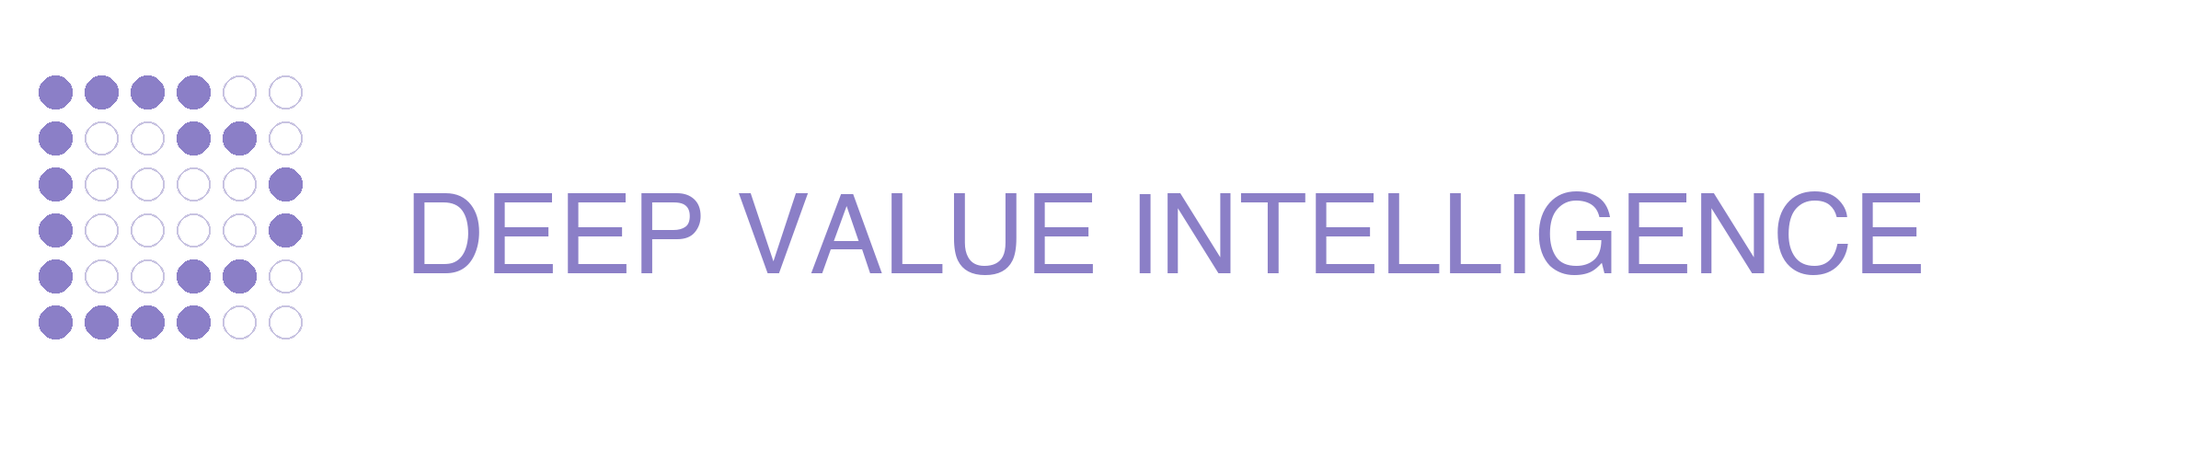
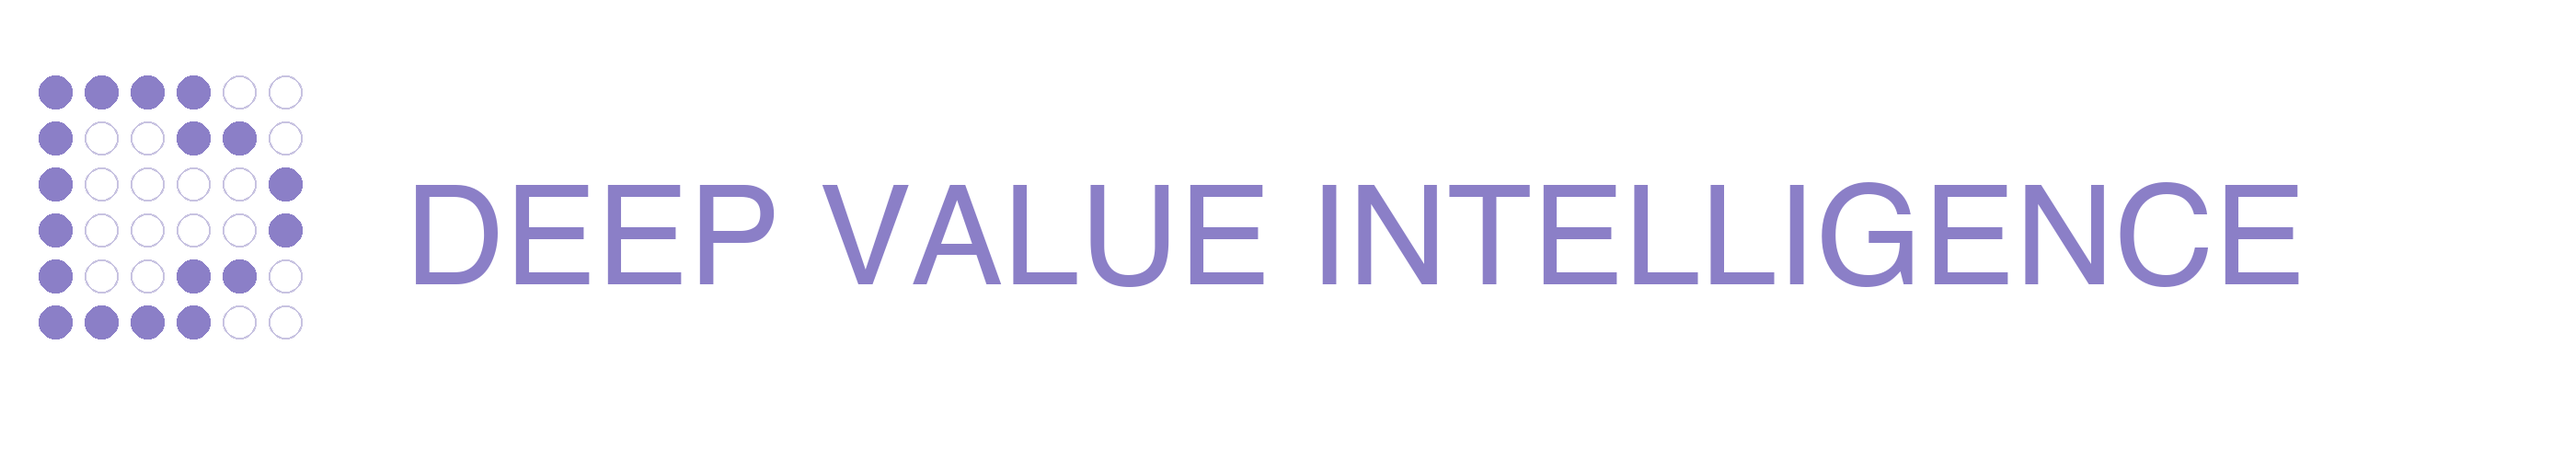
Update readme

Changed region(s): [[0.0, 0.15, 0.9062, 0.75]]

diff --git a/assets/generate_logo.py b/assets/generate_logo.py
@@ -4,8 +4,8 @@
 from PIL import Image, ImageDraw, ImageFont
 import os
 
-# Image dimensions (same as original)
-WIDTH = 2400
+# Image dimensions (wider to fit larger text)
+WIDTH = 2800
 HEIGHT = 500
 
 # Colors
@@ -78,7 +78,7 @@ font_paths = [
 ]
 
 font = None
-font_size = 120  # Keep original large font size
+font_size = 150  # Larger font size
 
 for font_path in font_paths:
     if os.path.exists(font_path):
